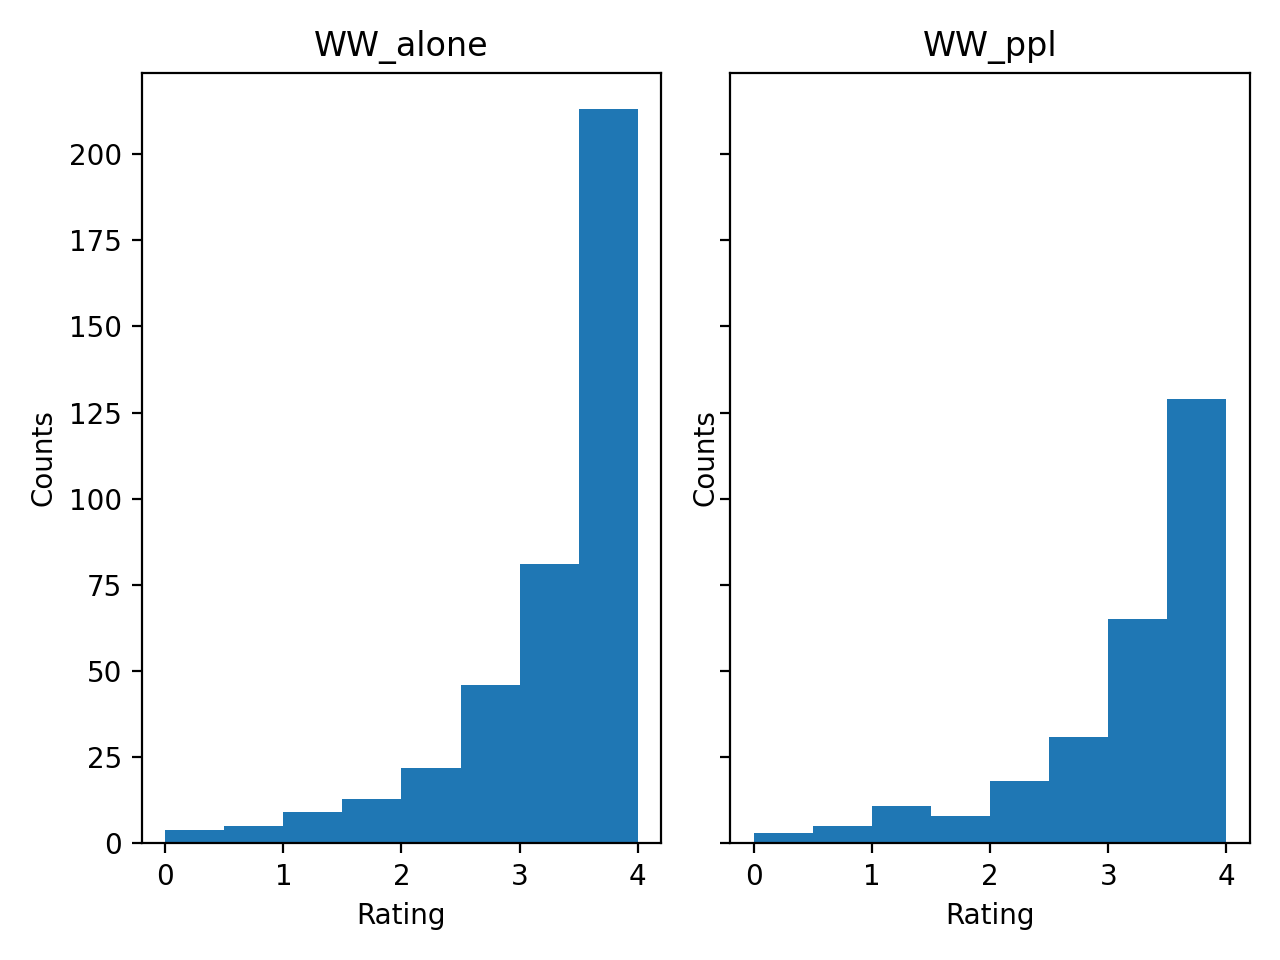
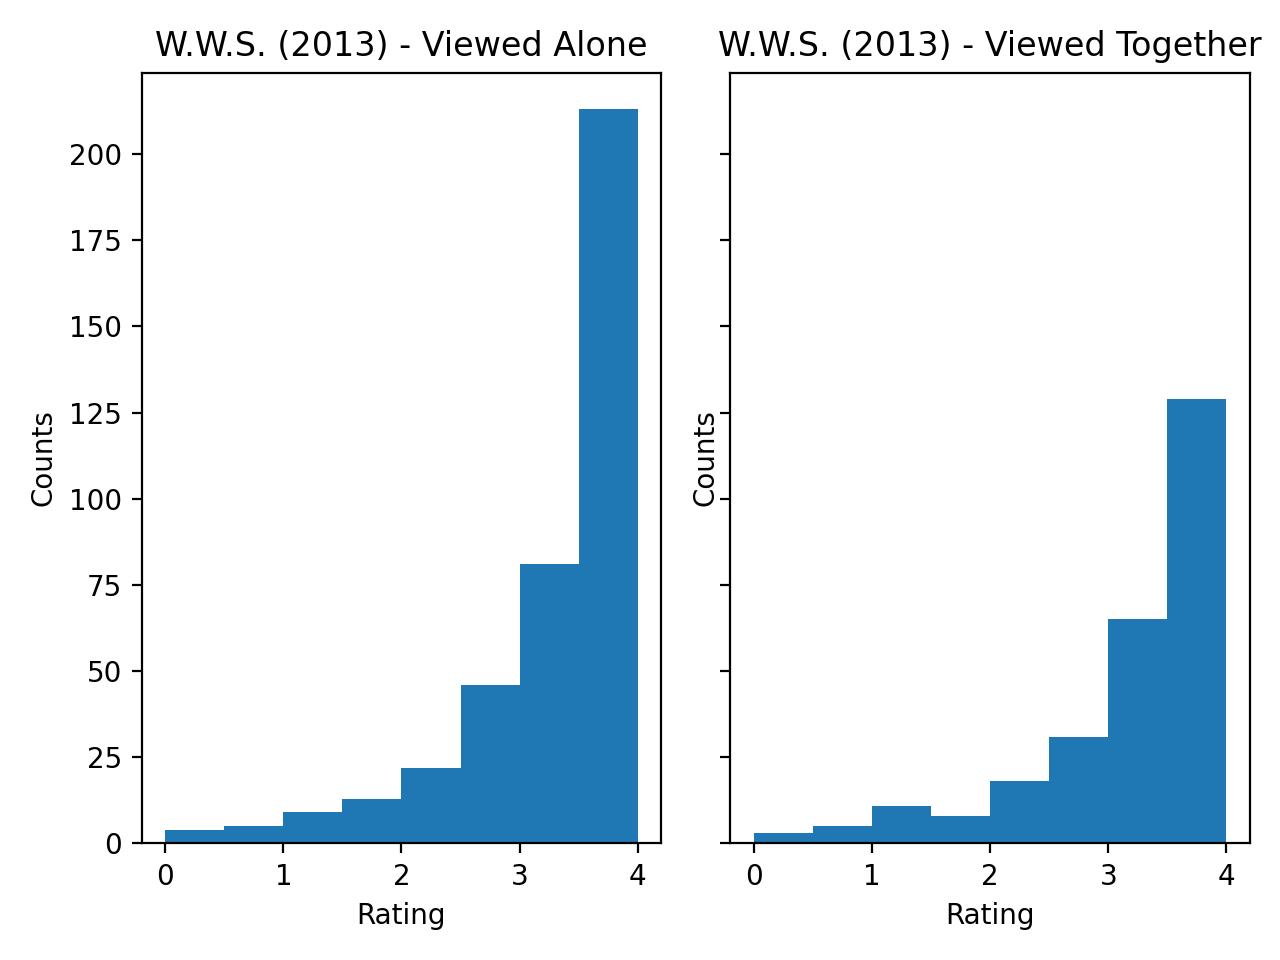
Some more tweaks with bonis q specified

Changed region(s): [[0.5625, 0.0312, 1.0, 0.0625], [0.125, 0.0312, 0.5, 0.0625]]

diff --git a/movies.py b/movies.py
@@ -158,9 +158,15 @@ class movie:
                 res = "fail to reject"
 
             print("As p-value of {pval} is {sign} alpha of {alpha} at test statistic {stat}, we {res} the null hypothesis.\nThere is {suf} evidence to suggest that {analysis}\n".format(sign = eq, \
-                pval = format(self.val[1],".5f"), stat = format(self.val[0],".3f"), alpha= self.alpha, suf = s, res = res, analysis=text.lstrip()))     
+                pval = format(self.val[1],".5f"), stat = format(self.val[0],".2f"), alpha= self.alpha, suf = s, res = res, analysis=text.lstrip()))     
         else:
             return self.val
+
+    #Assumptions for U test: You should have independence of observations, which means that there is no relationship between 
+    # the observations in each group of the independent variable or between the groups themselves. For example, there must be different participants 
+    # in each group with no participant being in more than one group. 
+    # The distribution of scores for (example) "males" and the distribution of scores for "females" for the 
+    # independent variable, "gender") MUST have roughly the same shape.
    
     def utest2(self, x,y, hyp = 'two-sided', text = "that <what you try to test>"):
         self.val = stats.mannwhitneyu(x, y, alternative=hyp, method='auto')
@@ -175,7 +181,7 @@ class movie:
                 res = "fail to"
 
             print("As p-value of {pval} is {sign} alpha of {alpha} at test statistic {stat}, we {res} the null hypothesis.\nThere is {suf} evidence to suggest that {analysis}\n".format(sign = eq, \
-                pval = format(self.val[1],".5f"), stat = format(self.val[0],".3f"), alpha= self.alpha, suf = s, res = res, analysis=text.lstrip()))     
+                pval = format(self.val[1],".5f"), stat = format(self.val[0],".2f"), alpha= self.alpha, suf = s, res = res, analysis=text.lstrip()))     
         else:
             return self.val
 
@@ -193,7 +199,7 @@ class movie:
                 res = "fail to reject"
 
             print("As p-value of {pval} is {sign} alpha of {alpha} at test statistic {stat}, we {res} the null hypothesis.\nThere is {suf} evidence to suggest that {analysis}\n".format(sign = eq, \
-                pval = format(self.val[1],".5f"), stat = format(self.val[0],".3f"), alpha= self.alpha, suf = s, res = res, analysis=text.lstrip()))     
+                pval = format(self.val[1],".5f"), stat = format(self.val[0],".2f"), alpha= self.alpha, suf = s, res = res, analysis=text.lstrip()))     
         else:
             return self.val
 
@@ -212,7 +218,7 @@ class movie:
         mod_df = df.dropna( how='any', subset=[col_title_1, col_title_2])
         return np.array(mod_df[col_title_1]), np.array(mod_df[col_title_2])
 
-    def magic_prop_pval(self, xcol_title = 'Gender identity (1 = female; 2 = male; 3 = self-described)', options = [1, 2, 3], hyp = 'two-sided', text="that <what you try to test>", verbose=False):
+    def utest2_prop(self, xcol_title = 'Gender identity (1 = female; 2 = male; 3 = self-described)', options = [1, 2, 3], hyp = 'two-sided', text="that <what you try to test>", verbose=False):
         #TO-DO: Change this for a certain test (not only u-test)
         count = 0
         df = self.dataset
@@ -265,12 +271,16 @@ class movie:
 
        
             
+#=========================================================================================================================
+#=========================================================================================================================
 
 Movies = movie()
 #Some useful dictionaries
 movies_clean = Movies.table(dropNan=True, moviesOnly=True)
 movies_col = Movies.columnData(dropNan=True)
 
+#=========================================================================================================================
+#=========================================================================================================================
 
 # 1. Are movies that are more popular (operationalized as having more ratings) rated higher than movies that are less popular?
 movies_popularities = Movies.popularity()
@@ -298,8 +308,8 @@ sample_means_sleepers = []
 for movie in populars: sample_means_populars.append(np.mean(movie))
 for movie in sleepers: sample_means_sleepers.append(np.mean(movie))
 
-Movies.plot(sample_means_populars, sample_means_sleepers, "Q1", n_bins = 10, titleX = "sample_means_populars",titleY = "sample_means_sleepers", \
-    x1="Counts",y1="Counts",x2="Avg Rating",y2="Avg Rating")
+Movies.plot(sample_means_populars, sample_means_sleepers, "Q1", n_bins = 10, titleX = "Popular Movie Averages",titleY = "Unpopular Movie Averages", \
+    x1="Reviews",y1="Reviews",x2="Avg Rating",y2="Avg Rating")
 
 pval1 = Movies.ttest2(sample_means_populars,sample_means_sleepers, hyp = 'greater', text = "that movies that are more \
 popular have ratings that are higher than movies that are less popular.")
@@ -332,7 +342,7 @@ for i in range(len(movie_yrs)):
 
 if (len(newer)+len(older)!=400):error("DATA MISMATCH")
 
-Movies.plot(older, newer, "Q2", n_bins = 12, titleX = "sample_means_older",titleY = "sample_means_newer", \
+Movies.plot(older, newer, "Q2", n_bins = 12, titleX = "Older Movie Averages",titleY = "Newer Movie Averages", \
     x1="Counts",y1="Counts",x2="Avg Rating",y2="Avg Rating")
    
 pval2 = Movies.utest2(newer,older, hyp = 'two-sided', text = "that newer movies are rated differently than older films.")  
@@ -366,7 +376,7 @@ for i in range(len(genders)):
     else: error('GENDER MISMATCH')
 if count!=len(shrek_females)+len(shrek_males):error('POSSIBLE DATA MISMATCH')
 
-Movies.plot(shrek_males, shrek_females, "Q3", n_bins = 6, titleX = "sample_ratings_male",titleY = "sample_ratings_female", \
+Movies.plot(shrek_males, shrek_females, "Q3", n_bins = 6, titleX = "Male Ratings",titleY = "Female Ratings", \
     x1="Counts",y1="Counts",x2="Rating",y2="Rating")
 
 pval3 = Movies.utest2(shrek_males,shrek_females, hyp = 'two-sided', text = "that enjoyment of Shrek (2001) is gendered.")  
@@ -374,8 +384,9 @@ pval3 = Movies.utest2(shrek_males,shrek_females, hyp = 'two-sided', text = "that
 #=========================================================================================================================
 
 # 4. What proportion of movies are rated differently by male and female viewers? 
-prop4, pvals4 = Movies.magic_prop_pval(xcol_title = 'Gender identity (1 = female; 2 = male; 3 = self-described)', \
+prop4, pvals4 = Movies.utest2_prop(xcol_title = 'Gender identity (1 = female; 2 = male; 3 = self-described)', \
     options = [1, 2, 3], hyp = 'two-sided', text="show gendered preferences.")
+
 #=========================================================================================================================
 #=========================================================================================================================
 
@@ -396,7 +407,7 @@ for i in range(len(status)):
     #neglect the few who did not respond as there is not a guaranteed "50/50" chance someone has siblings 
 if count!=len(LK_single)+len(LK_multi):error('POSSIBLE DATA MISMATCH')
 
-Movies.plot(LK_single, LK_multi, "Q4", n_bins = 8, titleX = "LK_single_child",titleY = "LK_child_siblings", \
+Movies.plot(LK_single, LK_multi, "Q4", n_bins = 8, titleX = "Lion King (1994) with Single Children",titleY = "Lion King (1994) with Sibilings", \
     x1="Counts",y1="Counts",x2="Rating",y2="Rating")
 
 pval5 = Movies.utest2(LK_single, LK_multi, hyp = 'greater', text = "single children without siblings enjoy Lion King (1994) more.")  
@@ -404,9 +415,10 @@ pval5 = Movies.utest2(LK_single, LK_multi, hyp = 'greater', text = "single child
 #=========================================================================================================================
 
 #6. What proportion of movies exhibit an “only child effect”, i.e. are rated different by viewers with siblings  vs. those without?  
-pval6, pvals6 = Movies.magic_prop_pval(xcol_title = 'Are you an only child? (1: Yes; 0: No; -1: Did not respond)', \
+pval6, pvals6 = Movies.utest2_prop(xcol_title = 'Are you an only child? (1: Yes; 0: No; -1: Did not respond)', \
     options = [1, 0, 999], hyp = 'two-sided', text="are rated differently by viewers with siblings vs. those without.")
-    #Note: 999 signals to neglect the ones who did responde as we don't have a 50/50 chance one has siblings or not
+    #Note: 999 signals to neglect the ones who did responded as we don't have a 50/50 chance one has siblings or not
+
 #=========================================================================================================================
 #=========================================================================================================================
 
@@ -427,12 +439,12 @@ for i in range(len(status)):
 if count!=len(WW_alone)+len(WW_ppl):error('POSSIBLE DATA MISMATCH')
 pval7= Movies.utest2(WW_alone, WW_ppl, hyp = 'less', text = "people enjoy watching the The Wolf of Wall Street (2013) with others than alone.")  
 
-Movies.plot(WW_alone, WW_ppl, "Q7", n_bins = 8, titleX = "WW_alone",titleY = "WW_ppl", \
+Movies.plot(WW_alone, WW_ppl, "Q7", n_bins = 8, titleX = "W.W.S. (2013) - Viewed Alone",titleY = "W.W.S. (2013) - Viewed Together", \
     x1="Counts",y1="Counts",x2="Rating",y2="Rating")
 #=========================================================================================================================
 #=========================================================================================================================
 #8. What proportion of movies exhibit such a “social watching” effect? 
-prop8, pvals8 = Movies.magic_prop_pval(xcol_title = 'Movies are best enjoyed alone (1: Yes; 0: No; -1: Did not respond)', \
+prop8, pvals8 = Movies.utest2_prop(xcol_title = 'Movies are best enjoyed alone (1: Yes; 0: No; -1: Did not respond)', \
     options = [1, 0, 999], hyp = 'two-sided', text="show a social watching effect.")
 #=========================================================================================================================
 #=========================================================================================================================
@@ -451,13 +463,19 @@ pval9 = Movies.kstest2(ratings_HA,ratings_FN,text="that the two distributions ar
 #=========================================================================================================================
 
 # There are ratings on movies from several franchises ([‘Star Wars’, ‘Harry Potter’, ‘The Matrix’, ‘Indiana  Jones’, ‘Jurassic Park’,  ‘Pirates of the Caribbean’, ‘Toy Story’, ‘Batman’]) in this dataset. 
-# How many of these  are of inconsistent quality, as experienced by viewers? [Hint: You can use the keywords in quotation marks 
+# How many of these are of inconsistent quality, as experienced by viewers? [Hint: You can use the keywords in quotation marks 
 # featured in this question to identify the movies that are part of each franchise]  
 
 franchisesList = ['Star Wars', 'Harry Potter', 'The Matrix', 'Indiana Jones', 'Jurassic Park', 'Pirates of the Caribbean', 'Toy Story', 'Batman']
-discrepant10 = Movies.franchiseDiff(franchisesList, hyp = 'two-sided', text = "quality across its movie ratings.", alpha_ratio=2)
+discrepant10 = Movies.franchiseDiff(franchisesList, hyp = 'two-sided', text = "quality across its movie ratings.", alpha_ratio= 1)
 [print(res) for res in discrepant10]
 
 #=========================================================================================================================
 #=========================================================================================================================
-#Bonus something
+#Bonus: Tell us something interesting and true (supported by a significance test of some kind) about the 
+#movies in this dataset that is not already covered by the questions above [for 5% of the grade score].
+
+#anderson 2test to see how many of the movie ratings follow normal dist at 5%
+#anderson 1test to see how many movie ratings for males/fem follow exponential dist vs normal dist (repeat 1 sample twice)
+
+#TO DO - remove class from implementation + jupyter transfer
